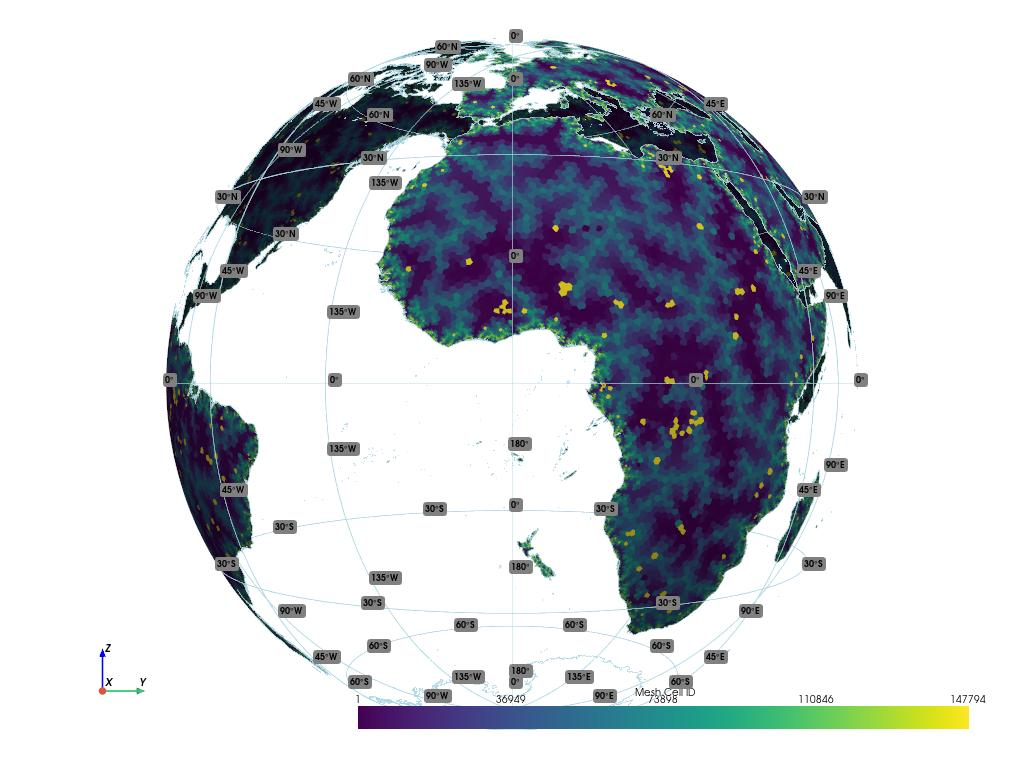
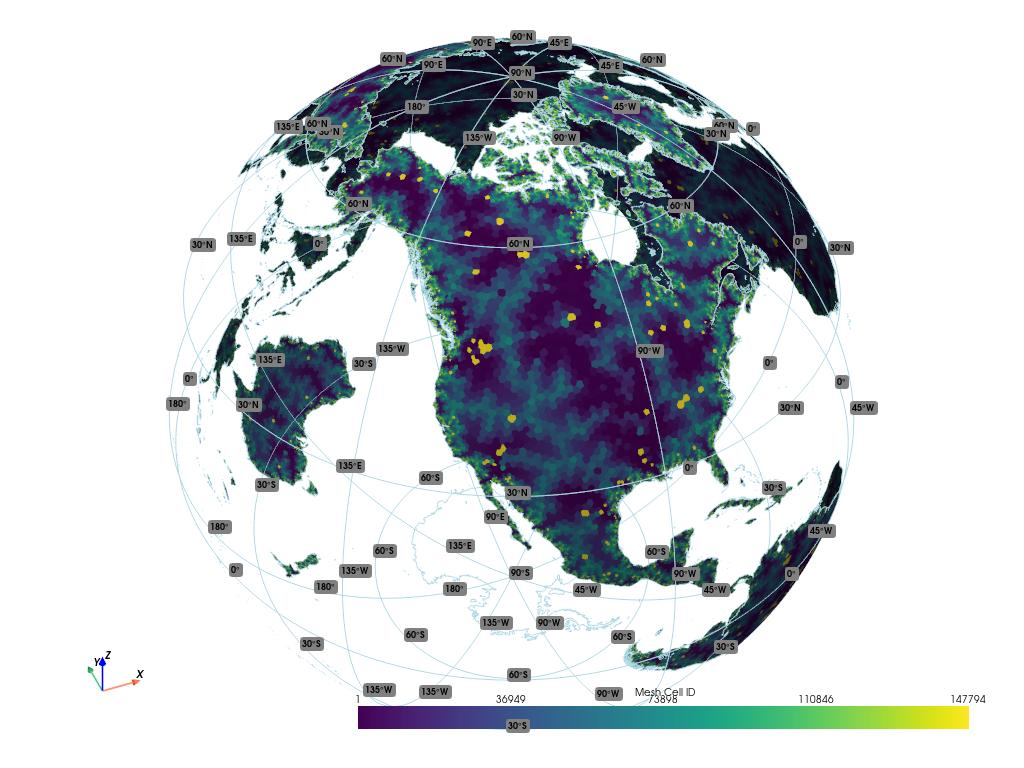
test new approach

diff --git a/examples/global/run_global_example.py b/examples/global/run_global_example.py
@@ -5,49 +5,63 @@ if sPlatform_os == 'Windows':
     sPath  = 'C:\\workspace\\python\\uraster\\uraster'
     sys.path.append(os.path.dirname(sPath))
     sFilename_source_mesh = 'C:\\scratch\\04model\\pyhexwatershed\\global\\pyflowline20250927006\\mpas.geojson' #use the L10-100 test mesh
-    sFilename_hydrosheds_dem = 'Z:\\00raw\\hydrology\\hydrosheds\\hydrosheds\\hyd_glo_dem_15s.tif'
-    sFilename_out_vector = 'C:\\scratch\\04model\\pyhexwatershed\\global\\pyflowline20250927006\\mpas_uraster.geojson'
+    sFilename_hydrosheds_dem = 'C:\\scratch\\00raw\\hydrology\\hydrosheds\\hydrosheds\\hyd_glo_dem_15s.tif'
+    sFilename_target_mesh = 'C:\\scratch\\04model\\pyhexwatershed\\global\\pyflowline20250927006\\mpas_uraster.geojson'
+    sFilename_mesh_png = 'C:\\workspace\\python\\uraster\\data\\output\\mpas\\mesh.jpg'
+    sFilename_variable_png = 'C:\\workspace\\python\\uraster\\data\\output\\mpas\\uraster.png'
+    sFilename_variable_animation = 'C:\\workspace\\python\\uraster\\data\\output\\mpas\\global_uraster.mp4'
 else:
     #macOS
     if sPlatform_os == 'Darwin':
         sFilename_source_mesh = '/Users/liao313/scratch/04model/pyhexwatershed/global/pyflowline20250927006//mpas.geojson' #use the L10-100 test mesh
         sFilename_hydrosheds_dem = '/Users/liao313/scratch/00raw/hydrology/hydrosheds/hydrosheds/hyd_glo_dem_15s.tif'
-        sFilename_out_vector = '/Users/liao313/scratch/04model/pyhexwatershed/global/pyflowline20250927006/mpas_uraster.geojson'
+        sFilename_target_mesh = '/Users/liao313/scratch/04model/pyhexwatershed/global/pyflowline20250927006/mpas_uraster.geojson'
     else:
         #linux
         sFilename_source_mesh = '/compyfs/liao313/04model/pyhexwatershed/global/pyflowline20250927006/mpas.geojson' #use the L10-100 test mesh
         sFilename_hydrosheds_dem = '/compyfs/liao313/00raw/hydrology/hydrosheds/hydrosheds/hyd_glo_dem_15s.tif'
-        sFilename_out_vector = '/compyfs/liao313/04model/pyhexwatershed/global/pyflowline20250927006/mpas_uraster.geojson'
+        sFilename_target_mesh = '/compyfs/liao313/04model/pyhexwatershed/global/pyflowline20250927006/mpas_uraster.geojson'
 
 from uraster.classes.uraster import uraster
-aConfig=dict()
-aConfig['sFilename_source_mesh']= sFilename_source_mesh #use the L10-100 test mesh
-aFilename_source_raster = []
 
-aFilename_source_raster.append(sFilename_hydrosheds_dem) #dem from hydros
-aConfig['aFilename_source_raster']= aFilename_source_raster
-aConfig['sFilename_target_mesh']= sFilename_out_vector
-pRaster = uraster(aConfig)
+def main():
+    aConfig=dict()
+    aConfig['sFilename_source_mesh']= sFilename_source_mesh #use the L10-100 test mesh
+    aFilename_source_raster = []
 
-pRaster.setup()
-pRaster.report_inputs()
-pRaster.visualize_source_mesh(sFilename_out='mesh.jpg')
+    aFilename_source_raster.append(sFilename_hydrosheds_dem) #dem from hydros
+    aConfig['aFilename_source_raster']= aFilename_source_raster
+    aConfig['sFilename_target_mesh']= sFilename_target_mesh
+    pRaster = uraster(aConfig)
 
-pRaster.run_remap()
-#pRaster.report_outputs()
-sColormap = 'terrain'
+    pRaster.setup()
+    pRaster.report_inputs()
+    dLongitude_focus_in = -112.033964
+    dLatitude_focus_in = 43.491977
+    pRaster.visualize_source_mesh(sFilename_out=sFilename_mesh_png, dLongitude_focus_in=dLongitude_focus_in, dLatitude_focus_in=dLatitude_focus_in)
 
-pRaster.visualize_target_mesh(
-    sFilename_out='global_uraster_dem.png',
-    sColormap=sColormap)
+    pRaster.run_remap()
+    #pRaster.report_outputs()
+    sColormap = 'terrain'
 
-#pRaster.visualize_target_mesh(
-#    sFilename_out='global_uraster_dem.mp4',
-#    sColormap=sColormap,
-#    iFlag_create_animation=True,
-#    iAnimation_frames=360,       # 1° longitude per frame
-#    sAnimation_format='mp4')
+    pRaster.visualize_target_mesh(
+        sFilename_out=sFilename_variable_png,
+        dLongitude_focus_in=dLongitude_focus_in,
+        dLatitude_focus_in=dLatitude_focus_in,
+        sColormap=sColormap)
 
-#pRaster.cleanup()
+    pRaster.visualize_target_mesh(
+        sFilename_out=sFilename_variable_animation,
+        sColormap=sColormap,
+        dLongitude_focus_in=dLongitude_focus_in,
+        dLatitude_focus_in=dLatitude_focus_in,
+        iFlag_create_animation=True,
+        iAnimation_frames=360,       # 1° longitude per frame
+        sAnimation_format='mp4')
 
-print('done')
+    #pRaster.cleanup()
+
+    print('done')
+
+if __name__ == '__main__':
+    main()

diff --git a/examples/global/run_rhpx_example.py b/examples/global/run_rhpx_example.py
@@ -6,7 +6,7 @@ if sPlatform_os == 'Windows':
     sys.path.append(os.path.dirname(sPath))
     sFilename_source_mesh = 'C:\\workspace\\python\\uraster\\data\\input\\mesh\\gdf_rhpx_res3.geojson' #use the L10-100 test mesh
     sFilename_raster = 'C:\\workspace\\python\\uraster\\data\\input\\raster\\edgar_MNM_2015.tiff'
-    sFilename_target_vector = 'C:\\workspace\\python\\uraster\\data\\output\\rhpx\\rhpx_res3_uraster.geojson'
+    sFilename_target_mesh = 'C:\\workspace\\python\\uraster\\data\\output\\rhpx\\rhpx_res3_uraster.geojson'
     sFilename_mesh_png = 'C:\\workspace\\python\\uraster\\data\\output\\rhpx\\mesh.jpg'
     sFilename_variable_png = 'C:\\workspace\\python\\uraster\\data\\output\\rhpx\\uraster.png'
     sFilename_variable_animation = 'C:\\workspace\\python\\uraster\\data\\output\\rhpx\\global_uraster.mp4'
@@ -14,7 +14,7 @@ else:
     if sPlatform_os == 'Darwin':
         sFilename_source_mesh = '/Users/liao313/workspace/python/uraster/data/input/mesh/gdf_rhpx_res3.geojson' #use the L10-100 test mesh
         sFilename_raster = '/Users/liao313/workspace/python/uraster/data/input/raster/edgar_MNM_2015.tiff'
-        sFilename_target_vector = '/Users/liao313/workspace/python/uraster/data/output/rhpx/rhpx_res3_uraster.geojson'
+        sFilename_target_mesh = '/Users/liao313/workspace/python/uraster/data/output/rhpx/rhpx_res3_uraster.geojson'
 
 
 from uraster.classes.uraster import uraster
@@ -26,7 +26,7 @@ def main():
 
     aFilename_source_raster.append(sFilename_raster)  # dem from hydros
     aConfig['aFilename_source_raster'] = aFilename_source_raster
-    aConfig['sFilename_target_mesh'] = sFilename_target_vector
+    aConfig['sFilename_target_mesh'] = sFilename_target_mesh
     pRaster = uraster(aConfig)
 
     pRaster.setup()
